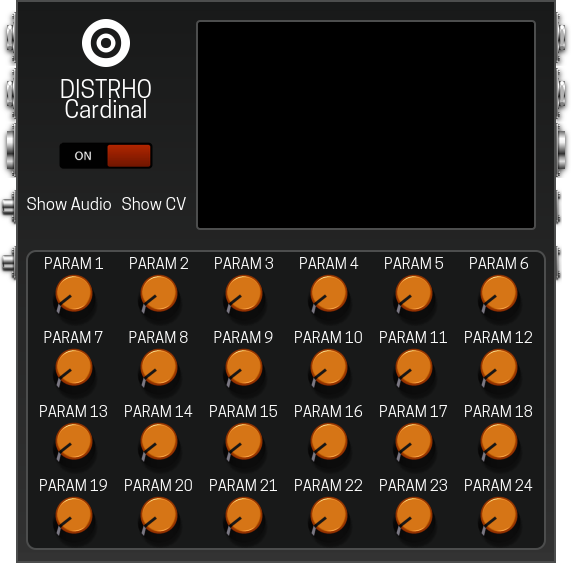
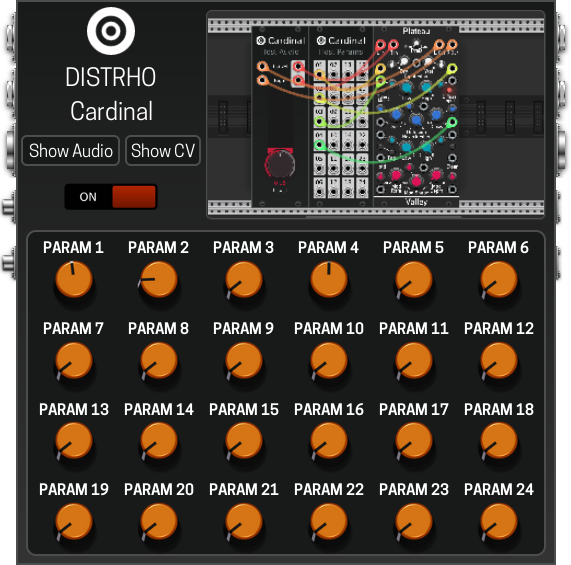
Finalize modgui details, add example preset

diff --git a/src/MOD/Cardinal.lv2/modgui/stylesheet.css b/src/MOD/Cardinal.lv2/modgui/stylesheet.css
@@ -3,7 +3,7 @@
     background: #333333;
     background: linear-gradient(to bottom, #181919, #333333);
     width: 540px;
-    height: 590px;
+    height: 565px;
     font-size: 20px;
     margin: 0;
     padding: 0;
@@ -11,7 +11,7 @@
 .cardinal-main.mod-pedal .border {
     border: 2px solid #4c4d4d;
     width: 540px;
-    height: 590px;
+    height: 565px;
     position: absolute;
 }
 
@@ -23,7 +23,7 @@
 /* top and bottom area split */
 .cardinal-main.mod-pedal .cardinal-main-top {
     width: 100%;
-    height: 240px;
+    height: 230px;
     position: absolute;
     top: 0px;
     color: white;
@@ -31,16 +31,16 @@
 
 .cardinal-main.mod-pedal .cardinal-main-bottom {
     width: 100%;
-    height: 180px;
+    height: 345px;
     position: absolute;
-    top: 240px;
+    top: 220px;
     color: white;
 }
 
 /* top area split */
 .cardinal-main.mod-pedal .cardinal-main-top-left {
-    width: 180px;
-    height: 240px;
+    width: 190px;
+    height: 230px;
     position: absolute;
     top: 0px;
     left: 0px;
@@ -52,30 +52,44 @@
 
 .cardinal-main.mod-pedal .cardinal-main-top-right {
     width: 350px;
-    height: 240px;
+    height: 230px;
     position: absolute;
     top: 0px;
-    left: 180px;
+    left: 190px;
 }
 
 .cardinal-main.mod-pedal .cardinal-patch-comment,
 .cardinal-main.mod-pedal .cardinal-patch-screeenshot {
     width: 340px;
     height: 210px;
-    margin: 20px 20px 10px 0px;
+    margin: 10px 10px 10px 0px;
 }
 
 .cardinal-main.mod-pedal .visibility-buttons {
-    width: 180px;
-    height: 40px;
+    width: 100%;
+    height: 34px;
     font-size: 17px;
     display: flex;
+    align-items: center;
     justify-content: space-evenly;
     justify-content: space-between;
 }
 
 .cardinal-main.mod-pedal .visibility-buttons span {
     cursor: pointer;
+    background-color: #181919;
+    border: 2px solid #4c4d4d;
+    border-radius: 6px;
+    padding: 1px 4px;
+}
+.cardinal-main.mod-pedal .visibility-buttons span:hover {
+    background-color: #333333;
+}
+.cardinal-main.mod-pedal .visibility-buttons span:first-child {
+    width: 52%;
+}
+.cardinal-main.mod-pedal .visibility-buttons span:nth-child(2) {
+    width: 40%;
 }
 
 .cardinal-main.mod-pedal .cardinal-main-knobs {
@@ -169,9 +183,12 @@
[1 lines of base64/hex data omitted]
     background-position: center;
     background-repeat: no-repeat;
-    background-size: contain;
+    background-size: cover;
     width: 100%;
     height: 100%;
+    border: 2px solid #4c4d4d;
+    border-radius: 6px;
+    border-style: ridge;
 }
 
 .cardinal-main.mod-pedal .mod-pedal-input,

diff --git a/src/MOD/CardinalFX.lv2/modgui/stylesheet.css b/src/MOD/CardinalFX.lv2/modgui/stylesheet.css
@@ -3,7 +3,7 @@
     background: #333333;
     background: linear-gradient(to bottom, #181919, #333333);
     width: 480px;
-    height: 420px;
+    height: 390px;
     font-size: 20px;
     margin: 0;
     padding: 0;
@@ -11,7 +11,7 @@
 .cardinal-fx.mod-pedal .border {
     border: 2px solid #4c4d4d;
     width: 480px;
-    height: 420px;
+    height: 390px;
     position: absolute;
 }
 
@@ -23,7 +23,7 @@
 /* top and bottom area split */
 .cardinal-fx.mod-pedal .cardinal-fx-top {
     width: 100%;
-    height: 240px;
+    height: 210px;
     position: absolute;
     top: 0px;
     color: white;
@@ -33,14 +33,14 @@
     width: 100%;
     height: 180px;
     position: absolute;
-    top: 240px;
+    top: 210px;
     color: white;
 }
 
 /* top area split */
 .cardinal-fx.mod-pedal .cardinal-fx-top-left {
-    width: 120px;
-    height: 240px;
+    width: 140px;
+    height: 210px;
     position: absolute;
     top: 0px;
     left: 0px;
@@ -51,18 +51,18 @@
 }
 
 .cardinal-fx.mod-pedal .cardinal-fx-top-right {
-    width: 350px;
-    height: 240px;
+    width: 340px;
+    height: 210px;
     position: absolute;
     top: 0px;
-    left: 120px;
+    left: 140px;
 }
 
 .cardinal-fx.mod-pedal .cardinal-patch-comment,
 .cardinal-fx.mod-pedal .cardinal-patch-screeenshot {
-    width: 340px;
-    height: 210px;
-    margin: 20px 20px 10px 0px;
+    width: 330px;
+    height: 190px;
+    margin: 10px 10px 10px 0px;
 }
 
 /* bottom section split */
@@ -174,9 +174,12 @@
[1 lines of base64/hex data omitted]
     background-position: center;
     background-repeat: no-repeat;
-    background-size: contain;
+    background-size: cover;
     width: 100%;
     height: 100%;
+    border: 2px solid #4c4d4d;
+    border-radius: 6px;
+    border-style: ridge;
 }
 
 .cardinal-fx.mod-pedal .cardinal-fx-knob-page-selector > span {

diff --git a/src/MOD/Cardinal.lv2/modgui/icon.html b/src/MOD/Cardinal.lv2/modgui/icon.html
@@ -6,13 +6,14 @@
             <div class="spacer"></div>
             <div class="distrho-logo"></div>
             <div class="cardinal-text">DISTRHO<br>Cardinal</div>
-            <div class="mod-switch">
-                <div class="mod-control-group mod-switch-image mod-port transport" mod-role="bypass" mod-widget="film"></div>
-            </div>
             <div class="mod-control-group visibility-buttons clearfix">
                 <span class="visibility-audio">Show Audio</span>
                 <span class="visibility-cv">Show CV</span>
             </div>
+            <div class="mod-switch">
+                <div class="mod-control-group mod-switch-image mod-port transport" mod-role="bypass" mod-widget="film"></div>
+            </div>
+            <div class="spacer"></div>
         </div>
         <div class="cardinal-main-top-right">
             <div class="mod-control-group cardinal-patch-comment">

diff --git a/plugins/Cardinal/src/AudioToCVPitch.cpp b/plugins/Cardinal/src/AudioToCVPitch.cpp
@@ -201,6 +201,7 @@ struct AudioToCVPitch : Module {
     }
 };
 
+#ifndef HEADLESS
 struct SmallPercentageNanoKnob : NanoKnob<2, 0> {
     SmallPercentageNanoKnob() {
         box.size = Vec(32, 32);
@@ -354,6 +355,17 @@ struct AudioToCVPitchWidget : ModuleWidgetWith9HP {
         }));
     }
 };
+#else
+struct AudioToCVPitchWidget : ModuleWidget {
+    AudioToCVPitchWidget(AudioToCVPitch* const module) {
+        setModule(module);
+        addInput(createInput<PJ301MPort>({}, module, AudioToCVPitch::AUDIO_INPUT));
+        addOutput(createOutput<PJ301MPort>({}, module, AudioToCVPitch::CV_PITCH));
+        addOutput(createOutput<PJ301MPort>({}, module, AudioToCVPitch::CV_GATE));
+
+    }
+};
+#endif
 
 // --------------------------------------------------------------------------------------------------------------------
 
